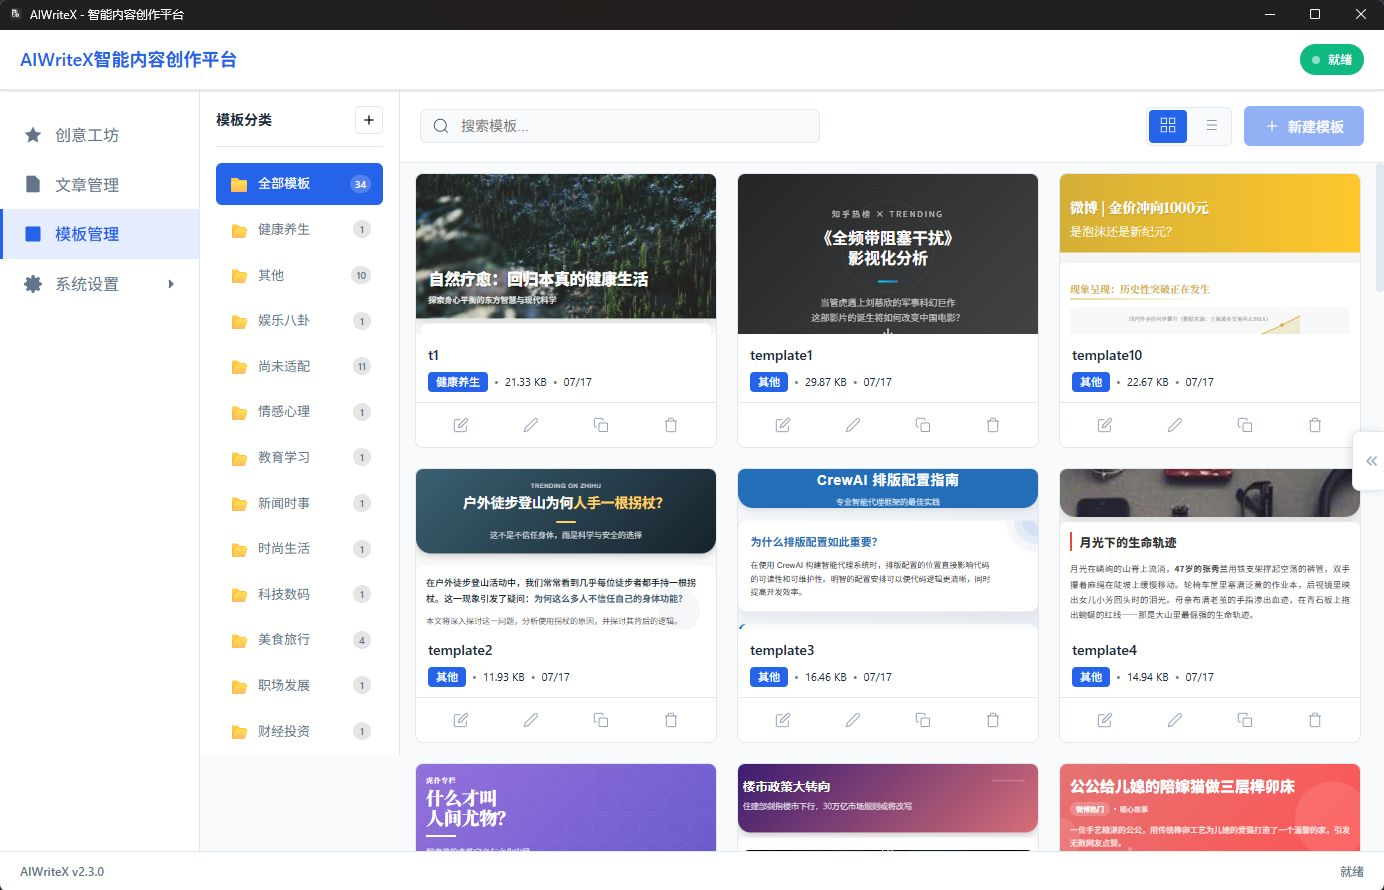
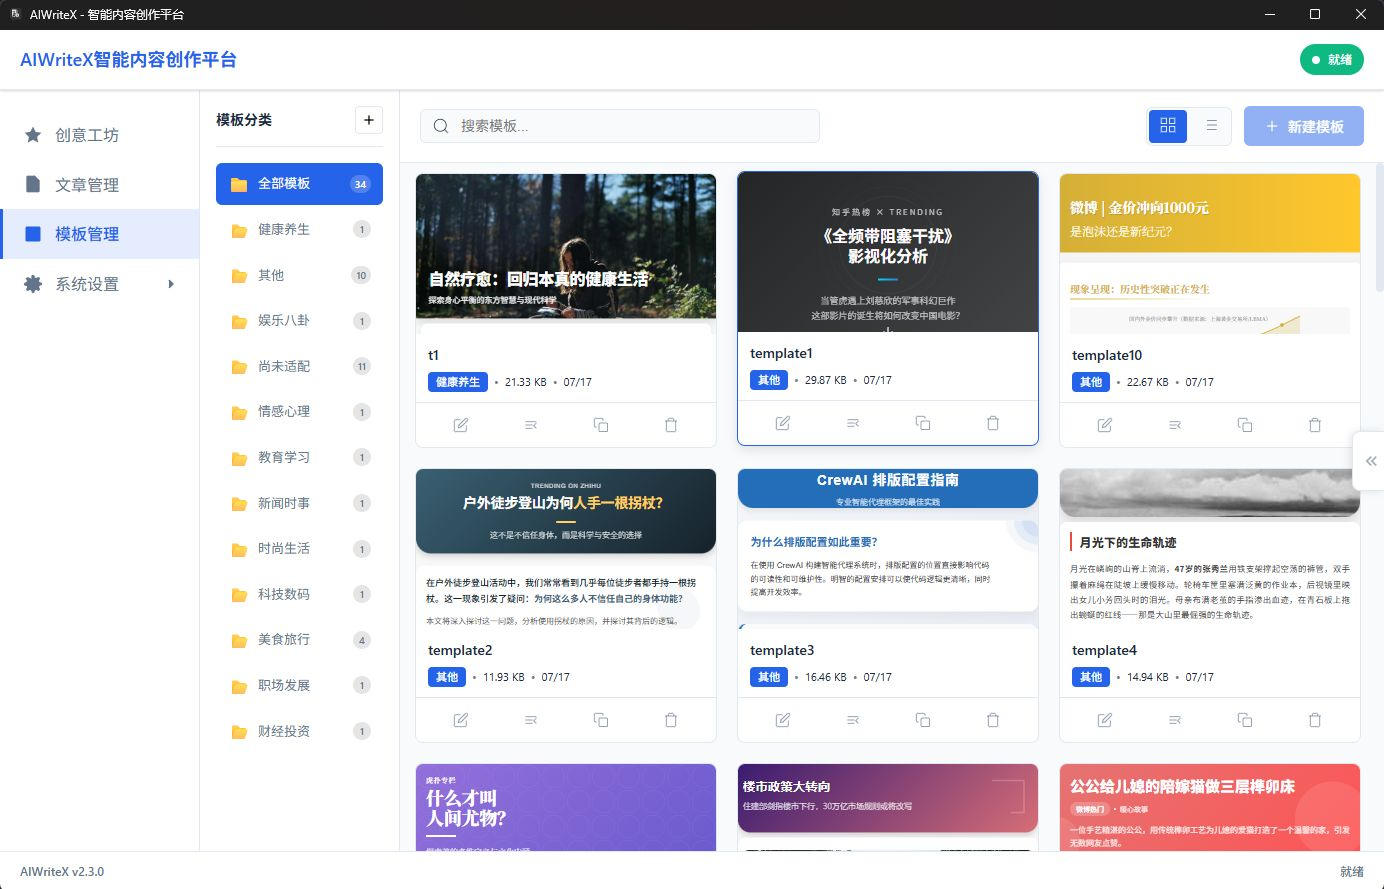
模板管理界面及功能基本完成（仅剩编辑）

diff --git a/src/ai_write_x/web/static/js/template-manager.js b/src/ai_write_x/web/static/js/template-manager.js
@@ -51,7 +51,6 @@ class TemplateManager {
                 this.defaultCategories = [];  
             }  
         } catch (error) {  
-            console.error('加载默认分类失败:', error);  
             this.defaultCategories = [];  
         }  
     } 
@@ -100,7 +99,7 @@ class TemplateManager {
             });  
         }  
           
-        // 视图切换 - 使用更具体的选择器避免冲突  
+        // 视图切换 
         document.querySelectorAll('.view-toggle .view-btn').forEach(btn => {  
             btn.addEventListener('click', (e) => {  
                 e.preventDefault();  
@@ -118,9 +117,32 @@ class TemplateManager {
                     this.selectCategory(categoryItem.dataset.category);  
                 }  
             });  
-        }  
+        }
+
+        // 快捷键刷新 (F5 或 Ctrl+R) - 隐藏功能  
+        document.addEventListener('keydown', (e) => {  
+            const templateView = document.getElementById('template-manager-view');  
+            if (templateView && templateView.style.display !== 'none') {  
+                if (e.key === 'F5' || ((e.ctrlKey || e.metaKey) && e.key === 'r')) {  
+                    e.preventDefault();  
+                    this.refreshTemplates();  
+                }  
+            }  
+        }); 
     }  
   
+    async refreshTemplates() {  
+        try {  
+            await this.loadCategories();  
+            await this.loadTemplates(this.currentCategory);  
+            this.renderCategoryTree();  
+            this.renderTemplateGrid();  
+            window.app?.showNotification('已刷新模板列表', 'success');  
+        } catch (error) {  
+            window.app?.showNotification('刷新失败: ' + error.message, 'error');  
+        }  
+    }
+
     renderCategoryTree() {  
         const tree = document.getElementById('category-tree');  
         if (!tree) return;  
@@ -150,6 +172,94 @@ class TemplateManager {
                 this.showCategoryContextMenu(e, categoryName);  
             });  
         });  
+        
+        // 绑定拖拽接收事件  
+        this.bindCategoryDropEvents();  
+    }
+
+    bindCategoryDropEvents() {  
+        const tree = document.getElementById('category-tree');  
+        if (!tree) return;  
+        
+        // 为所有分类项(除了"全部模板")绑定拖拽接收事件  
+        tree.querySelectorAll('.category-item[data-category]:not([data-category=""])').forEach(item => {  
+            // 拖拽悬停  
+            item.addEventListener('dragover', (e) => {  
+                e.preventDefault();  
+                e.dataTransfer.dropEffect = 'move';  
+                
+                // 获取源分类  
+                const sourceCategory = e.dataTransfer.getData('template-category');  
+                const targetCategory = item.dataset.category;  
+                
+                // 如果是同一分类,显示禁止图标  
+                if (sourceCategory === targetCategory) {  
+                    e.dataTransfer.dropEffect = 'none';  
+                    item.classList.remove('drag-over');  
+                } else {  
+                    item.classList.add('drag-over');  
+                }  
+            });  
+            
+            // 拖拽离开  
+            item.addEventListener('dragleave', (e) => {  
+                item.classList.remove('drag-over');  
+            });  
+            
+            // 拖拽放下  
+            item.addEventListener('drop', async (e) => {  
+                e.preventDefault();  
+                item.classList.remove('drag-over');  
+                
+                const sourcePath = e.dataTransfer.getData('template-path');  
+                const templateName = e.dataTransfer.getData('template-name');  
+                const sourceCategory = e.dataTransfer.getData('template-category');  
+                const targetCategory = item.dataset.category;  
+                
+                // 如果是同一分类,不执行操作  
+                if (sourceCategory === targetCategory) {  
+                    return;  
+                }  
+                
+                // 弹出确认对话框  
+                this.showMoveConfirmDialog(sourcePath, templateName, sourceCategory, targetCategory);  
+            });  
+        });  
+    }
+
+    showMoveConfirmDialog(sourcePath, templateName, sourceCategory, targetCategory) {  
+        const message = `确认将模板 "${templateName}" 从 "${sourceCategory}" 移动到 "${targetCategory}"?`;  
+        
+        window.dialogManager.showConfirm(  
+            message,  
+            async () => {  
+                try {  
+                    const response = await fetch('/api/templates/move', {  
+                        method: 'PUT',  
+                        headers: { 'Content-Type': 'application/json' },  
+                        body: JSON.stringify({  
+                            source_path: sourcePath,  
+                            target_category: targetCategory  
+                        })  
+                    });  
+                    
+                    if (response.ok) {  
+                        // 刷新数据  
+                        await this.loadCategories();  
+                        await this.loadTemplates(this.currentCategory);  
+                        this.renderCategoryTree();  
+                        this.renderTemplateGrid();  
+                        
+                        window.app?.showNotification(`模板已移动到 "${targetCategory}"`, 'success');  
+                    } else {  
+                        const error = await response.json();  
+                        window.dialogManager.showAlert('移动失败: ' + (error.detail || '未知错误'), 'error');  
+                    }  
+                } catch (error) {  
+                    window.dialogManager.showAlert('移动失败: ' + error.message, 'error');  
+                }  
+            }  
+        );  
     }
 
     showCategoryContextMenu(e, categoryName) {  
@@ -288,7 +398,6 @@ class TemplateManager {
                         window.dialogManager.showAlert('删除失败: ' + errorMessage, 'error');    
                     }    
                 } catch (error) {    
-                    console.error('删除分类失败:', error);  
                     window.dialogManager.showAlert('删除失败: ' + error.message, 'error');    
                 }    
             }    
@@ -327,7 +436,6 @@ class TemplateManager {
                 }  
             }  
         } catch (error) {  
-            console.error('更新配置失败:', error);  
             // 配置更新失败不影响分类操作本身  
         }  
     }
@@ -361,13 +469,14 @@ class TemplateManager {
     renderTemplateGrid() {  
         const grid = document.getElementById('template-grid');  
         if (!grid) return;  
-          
+        
         grid.className = this.currentLayout === 'grid' ? 'template-grid' : 'template-grid list-view';  
-          
+        
         if (this.templates.length === 0) {  
             grid.innerHTML = '<div class="empty-state">暂无模板</div>';  
             return;  
-        }
+        }  
+        
         const formatTime = (timeStr) => {  
             const date = new Date(timeStr);  
             const today = new Date();  
@@ -377,40 +486,44 @@ class TemplateManager {
             if (diffDays === 1) return '昨天';  
             if (diffDays < 7) return `${diffDays}天前`;  
             return date.toLocaleDateString('zh-CN', { month: '2-digit', day: '2-digit' });  
-        }; 
-
-          
-        // 渲染卡片结构,但不立即加载iframe内容  
+        };  
+        
+        // 渲染卡片结构,添加 draggable 属性  
         grid.innerHTML = this.templates.map(template => `  
-            <div class="template-card" data-template-path="${template.path}">    
-                <div class="card-preview">    
-                    <iframe sandbox="allow-same-origin allow-scripts"     
-                            loading="lazy"    
-                            data-template-path="${template.path}"    
-                            data-loaded="false"></iframe>    
-                    <div class="preview-loading">加载中...</div>    
-                </div>    
-                <div class="card-content">    
-                    <h4 class="card-title" title="${template.name}">${template.name}</h4>    
-                    <div class="card-meta">    
+            <div class="template-card"   
+                data-template-path="${template.path}"  
+                data-template-name="${template.name}"  
+                data-template-category="${template.category}"  
+                draggable="true">  
+                <div class="card-preview">  
+                    <iframe sandbox="allow-same-origin allow-scripts"   
+                            loading="lazy"  
+                            data-template-path="${template.path}"  
+                            data-loaded="false"></iframe>  
+                    <div class="preview-loading">加载中...</div>  
+                </div>  
+                <div class="card-content">  
+                    <h4 class="card-title" title="${template.name}">${template.name}</h4>  
+                    <div class="card-meta">  
                         <span class="category-badge" title="${template.category}">${template.category}</span>  
-                        <span class="meta-divider">•</span>    
-                        <span class="size-info">${template.size}</span>    
-                        <span class="meta-divider">•</span>    
-                        <span class="time-info">${formatTime(template.create_time)}</span>    
-                    </div>    
-                </div> 
+                        <span class="meta-divider">•</span>  
+                        <span class="size-info">${template.size}</span>  
+                        <span class="meta-divider">•</span>  
+                        <span class="time-info">${formatTime(template.create_time)}</span>  
+                    </div>  
+                </div>  
                 <div class="card-actions">  
                     <button class="btn-icon" data-action="edit" title="编辑">  
                         <svg viewBox="0 0 24 24" width="16" height="16" fill="none" stroke="currentColor">  
                             <path d="M11 4H4a2 2 0 0 0-2 2v14a2 2 0 0 0 2 2h14a2 2 0 0 0 2-2v-7"/>  
                             <path d="M18.5 2.5a2.121 2.121 0 0 1 3 3L12 15l-4 1 1-4 9.5-9.5z"/>  
                         </svg>  
-                    </button> 
-                    <button class="btn-icon" data-action="rename" title="重命名">  
-                        <svg viewBox="0 0 24 24" width="16" height="16" fill="none" stroke="currentColor">  
-                            <path d="M17 3a2.828 2.828 0 1 1 4 4L7.5 20.5 2 22l1.5-5.5L17 3z"/>  
-                        </svg>  
+                    </button>  
+                    <button class="btn-icon" data-action="rename" title="重命名">    
+                        <svg viewBox="0 0 24 24" width="16" height="16" fill="none" stroke="currentColor">    
+                            <path d="M4 7h16M4 12h10M4 17h10"/>  
+                            <path d="M20 17l-4-4 4-4"/>  
+                        </svg>    
                     </button> 
                     <button class="btn-icon" data-action="copy" title="复制">  
                         <svg viewBox="0 0 24 24" width="16" height="16" fill="none" stroke="currentColor">  
@@ -427,13 +540,14 @@ class TemplateManager {
                 </div>  
             </div>  
         `).join('');  
-          
+        
         this.bindCardEvents();  
-          
+        this.bindDragEvents(); // 新增:绑定拖拽事件  
+        
         // 观察所有卡片,实现懒加载  
         const cards = grid.querySelectorAll('.template-card');  
         cards.forEach(card => this.observer.observe(card));  
-    }  
+    }
   
     async loadSinglePreview(iframe) {  
         const templatePath = iframe.dataset.templatePath;  
@@ -460,7 +574,6 @@ class TemplateManager {
             iframe.dataset.loaded = 'true';  
             if (loadingEl) loadingEl.style.display = 'none';  
         } catch (error) {  
-            console.error('加载模板预览失败:', templatePath, error);  
             iframe.srcdoc = '<div style="padding: 20px; color: red;">加载失败</div>';  
             if (loadingEl) loadingEl.textContent = '加载失败';  
         }  
@@ -495,8 +608,38 @@ class TemplateManager {
                 });  
             });  
         });  
-    }  
-  
+    }
+
+    bindDragEvents() {  
+        const grid = document.getElementById('template-grid');  
+        if (!grid) return;  
+        
+        // 为所有模板卡片绑定拖拽开始事件  
+        grid.querySelectorAll('.template-card').forEach(card => {  
+            card.addEventListener('dragstart', (e) => {  
+                const templatePath = card.dataset.templatePath;  
+                const templateName = card.dataset.templateName;  
+                const templateCategory = card.dataset.templateCategory;  
+                
+                // 存储拖拽数据  
+                e.dataTransfer.effectAllowed = 'move';  
+                e.dataTransfer.setData('template-path', templatePath);  
+                e.dataTransfer.setData('template-name', templateName);  
+                e.dataTransfer.setData('template-category', templateCategory);  
+                
+                // 添加拖拽样式  
+                card.classList.add('dragging');  
+                card.style.opacity = '0.5';  
+            });  
+            
+            card.addEventListener('dragend', (e) => {  
+                // 移除拖拽样式  
+                card.classList.remove('dragging');  
+                card.style.opacity = '1';  
+            });  
+        });  
+    }
+
     async handleCardAction(action, template) {    
         switch(action) {  
             case 'rename':  // 新增  
@@ -562,7 +705,6 @@ class TemplateManager {
                 }  
             })  
             .catch(err => {  
-                console.error('预览失败:', err);  
                 window.dialogManager.showAlert('预览失败: ' + err.message, 'error');  
             });  
     }  

diff --git a/src/ai_write_x/web/static/css/views/template-manager.css b/src/ai_write_x/web/static/css/views/template-manager.css
@@ -1,12 +1,12 @@
 /* 模板管理视图样式 */  
-.template-manager-layout {      
-    display: flex;
+.template-manager-layout {  
+    display: flex;  
     flex-direction: row;  
-    gap: 0;      
-    flex: 1;      
-    min-height: 0;      
+    gap: 0;  
+    flex: 1;  
+    min-height: 0;  
     overflow: hidden;  
-    max-height: calc(100vh - var(--header-height) - var(--footer-height));  
+    height: calc(100vh - var(--header-height) - var(--footer-height));
 }   
   
 .template-main-wrapper {      
@@ -23,11 +23,12 @@
     flex-shrink: 0;  
     background: var(--surface-color);  
     border-right: 1px solid var(--border-color);  
-    padding: 16px 16px var(--sidebar-bottom-padding) 16px; 
+    padding: 16px;
     overflow-y: auto;  
     height: 100%;  
     display: flex;  
     flex-direction: column;  
+    min-height: calc(100vh - var(--header-height) - var(--footer-height));
 }   
 
 .category-tree {  
@@ -513,6 +514,33 @@
     color: var(--text-tertiary);  
     font-size: 14px;  
 } 
+
+/* 拖拽中的卡片样式 */  
+.template-card.dragging {  
+    cursor: move;  
+}  
+  
+/* 拖拽悬停的分类样式 */  
+.category-item.drag-over {  
+    background-color: var(--primary-color);  
+    color: white;  
+    border-left: 3px solid var(--primary-dark);  
+}  
+  
+.category-item.drag-over .category-icon,  
+.category-item.drag-over .category-name,  
+.category-item.drag-over .category-count {  
+    color: white;  
+}  
+  
+/* 拖拽时的光标 */  
+.template-card[draggable="true"] {  
+    cursor: grab;  
+}  
+  
+.template-card[draggable="true"]:active {  
+    cursor: grabbing;  
+}
 
 /* ========== 响应式设计 ========== */  
   
